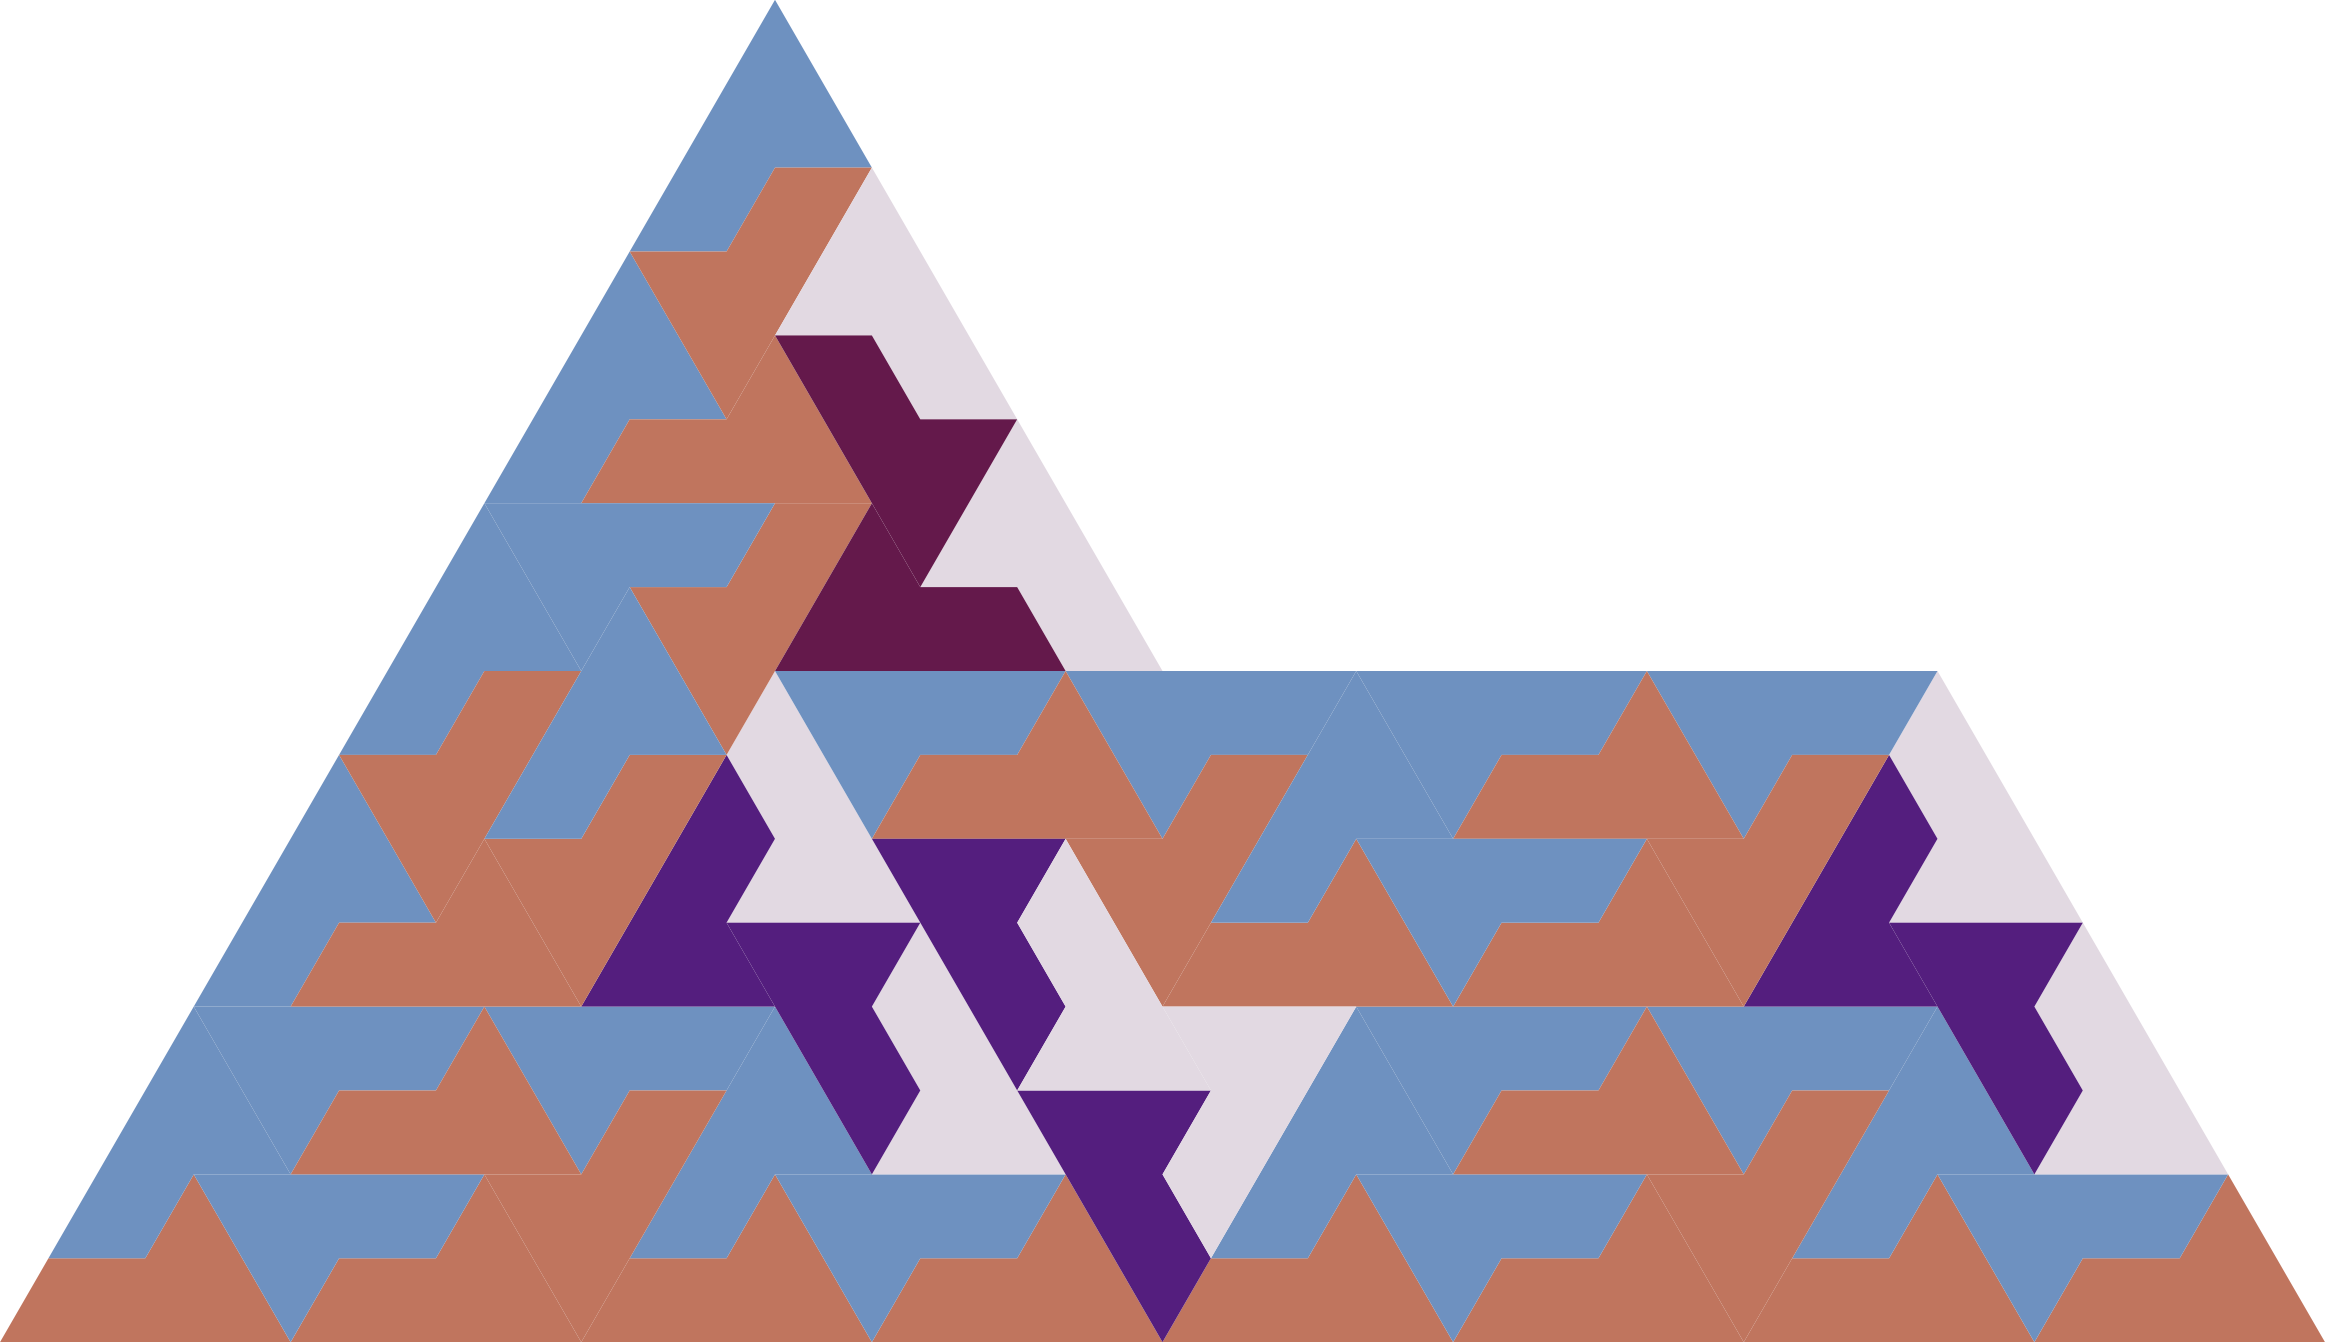
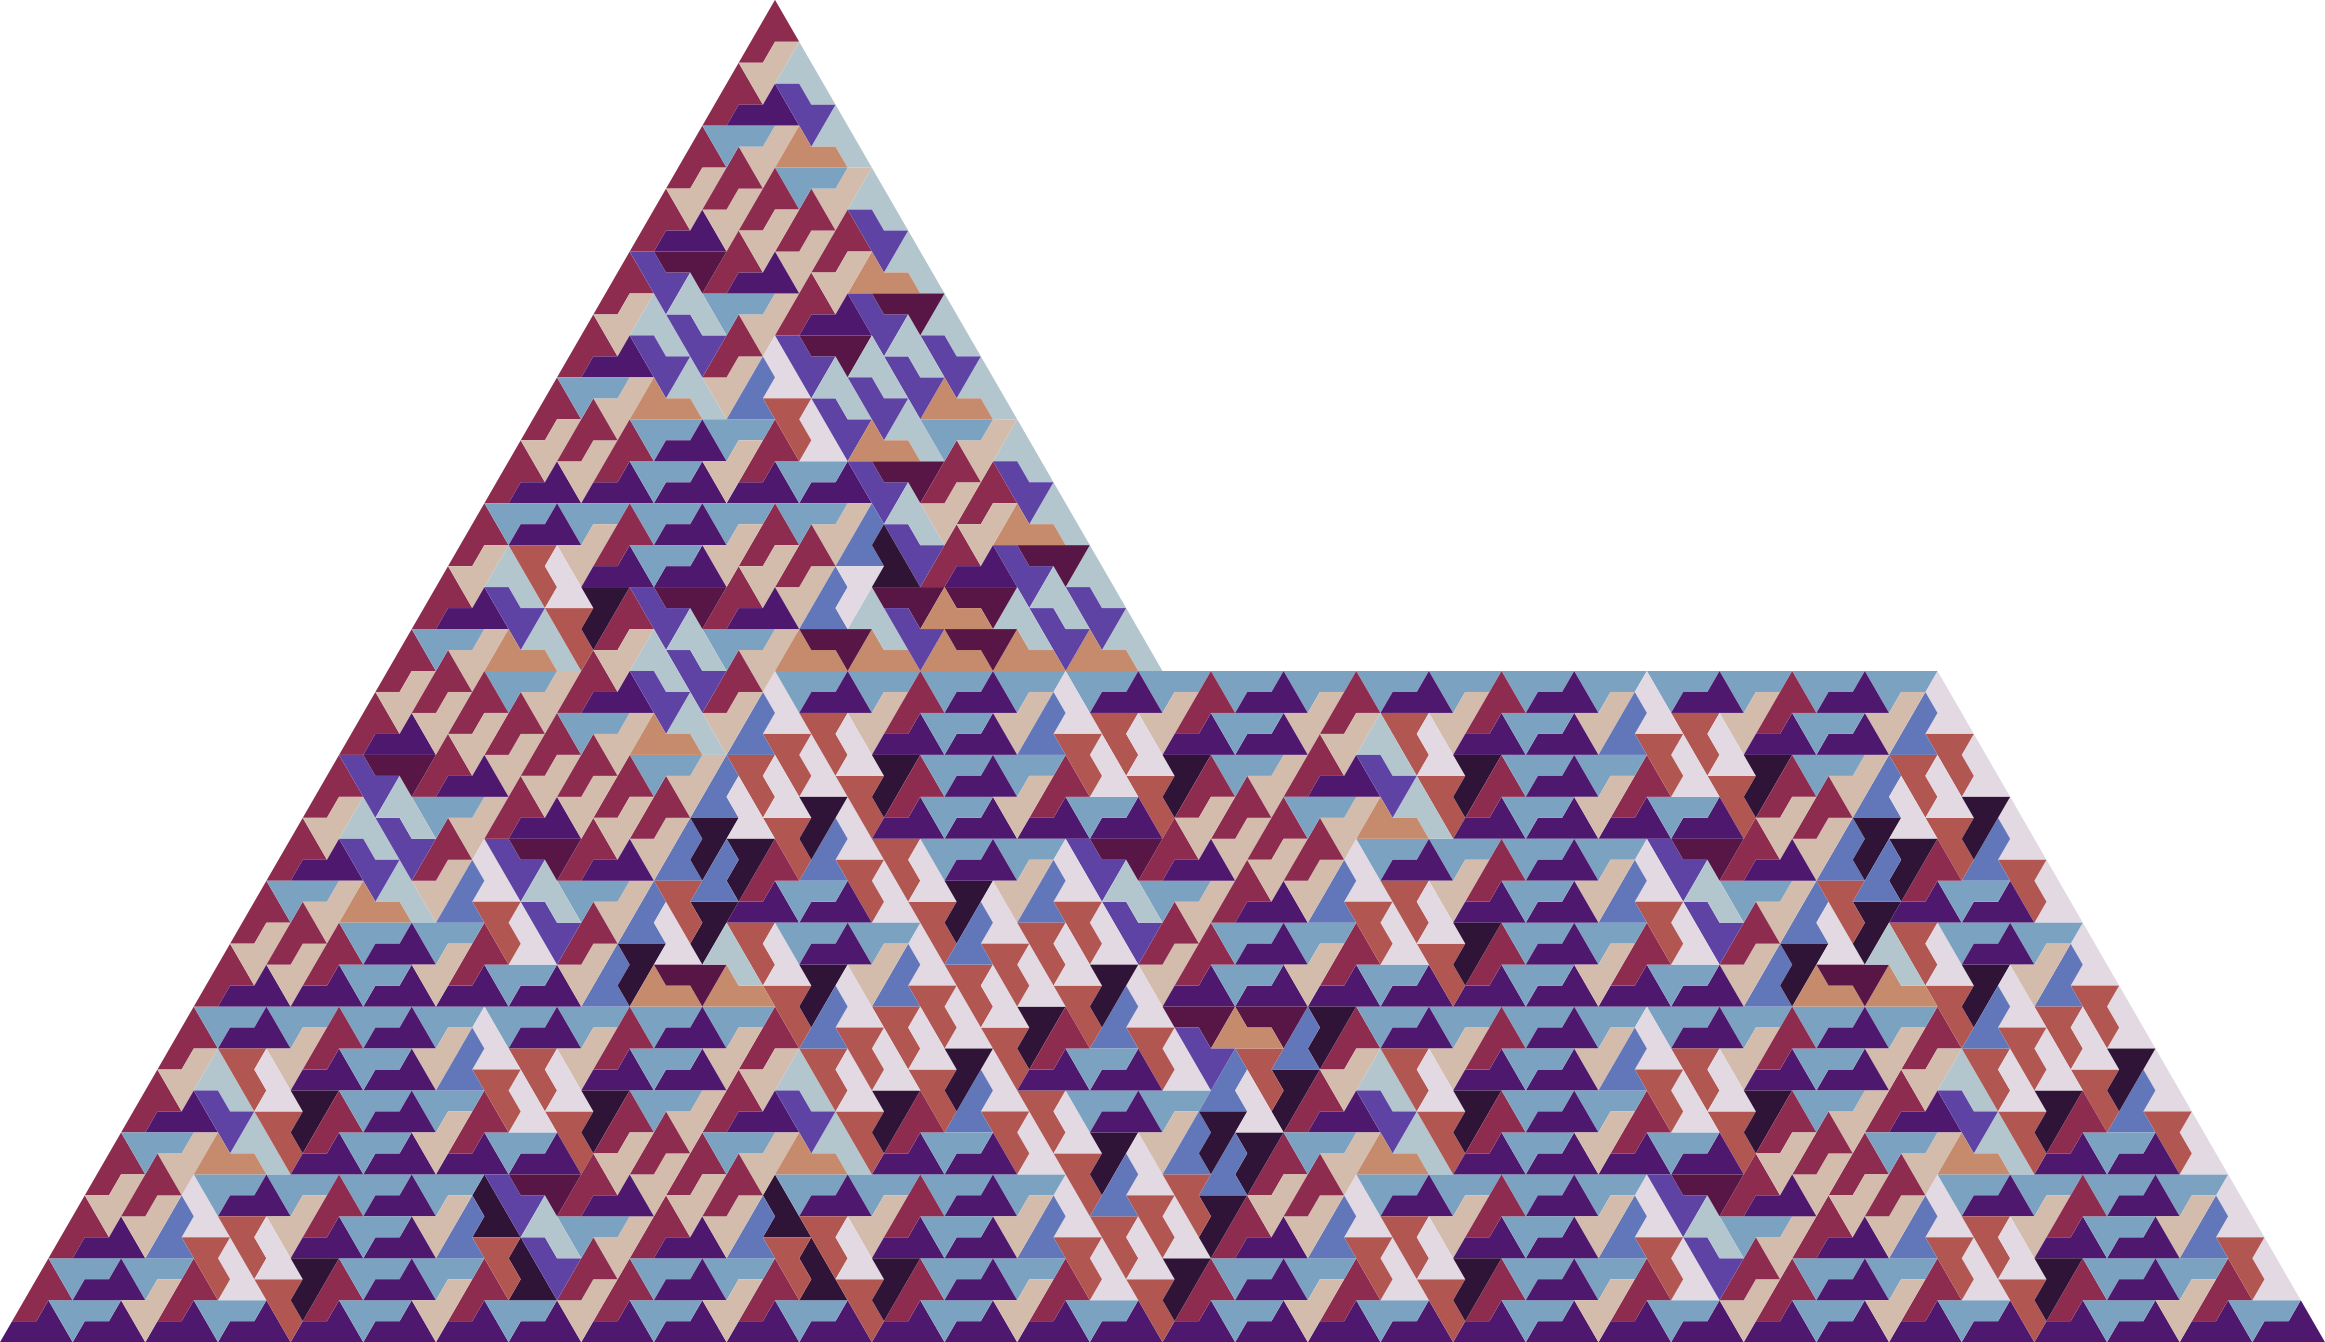
Improved color scheme to factor in chirality.

diff --git a/src/reptile.py b/src/reptile.py
@@ -29,7 +29,7 @@ class RepTile:
         self._thumb = thumb
 
         vecs = (self._thumb - origin, self._index - origin)
-        self.sign = np.sign(np.cross(*[np.array([x.real, x.imag]) for x in vecs]))
+        self._sign = np.sign(np.cross(*[np.array([x.real, x.imag]) for x in vecs]))
         self._perimeter = ()
 
     @property
@@ -61,7 +61,7 @@ class RepTile:
         return max(x.imag for x in self._perimeter)
 
     @property
-    def phase(self):
+    def color(self):
         """
         Phase of triangle, defined by the shortest leg.
 
@@ -69,7 +69,13 @@ class RepTile:
             float
                 Phase of shortest leg vector.
         """
-        return cmath.phase(self._thumb - self._origin)
+        phase = cmath.phase(self._thumb - self._origin)
+
+        color = phase / 2
+        if self._sign == -1:
+            color += np.pi
+
+        return color
 
     @property
     def perimeter(self):

diff --git a/src/pinwheel.py b/src/pinwheel.py
@@ -56,8 +56,8 @@ class Pinwheel(RepTile):
         QP = self._P - self._Q
 
         QP_rad, QP_phi = cmath.polar(QP)
-        Qa = cmath.rect(QP_rad, QP_phi + self.sign * np.pi / 2)
-        Qc = cmath.rect(2 / np.sqrt(5) * QP_rad, QP_phi + self.sign * self.alpha)
+        Qa = cmath.rect(QP_rad, QP_phi + self._sign * np.pi / 2)
+        Qc = cmath.rect(2 / np.sqrt(5) * QP_rad, QP_phi + self._sign * self.alpha)
         Qb = Qc / 2
 
         self.a = self._Q + Qa

diff --git a/src/renderer.py b/src/renderer.py
@@ -33,7 +33,7 @@ def draw_rep_tiles(triangles, fpath="triangles.png", cmap_resolution=1024):
         cmap=matplotlib.cm.get_cmap("twilight", cmap_resolution),
     )
 
-    phases = np.array([x.phase for x in triangles])
+    phases = np.array([x.color for x in triangles])
     patch_collection.set_array(cmap_resolution * phases / (2 * np.pi))
 
     ax.add_collection(patch_collection)

diff --git a/src/sphinx.py b/src/sphinx.py
@@ -55,7 +55,7 @@ class Sphinx(RepTile):
         QP_rad, QP_phi = cmath.polar(QP)
         QR_rad, QR_phi = cmath.polar(QR)
 
-        Pa = cmath.rect(QP_rad / 2, QP_phi + 2 * self.sign * self.alpha)
+        Pa = cmath.rect(QP_rad / 2, QP_phi + 2 * self._sign * self.alpha)
 
         self._a = self._P + Pa
         self._b = self._R - Pa

diff --git a/README.md b/README.md
@@ -1,7 +1,5 @@
 # Python RepTile
 
-![Banner Version of Pinwheel Tiling](imgs/pinwheel-banner.png)
-
 A simple python program that allows a user to construct 
 [rep-tile](https://en.wikipedia.org/wiki/Rep-tile)
 tilings. Current implementations include
@@ -10,6 +8,11 @@ tilings. Current implementations include
 - [sphinx](https://en.wikipedia.org/wiki/Sphinx_tiling)
 
 For additional prettiness rep-tiles are coloured by orientiation.
+
+# Example Results
+
+![Pinwheel Tiling](imgs/pinwheel.png)
+![Sphinx Tiling](imgs/pinwheel.png)
 
 # Usage
 
